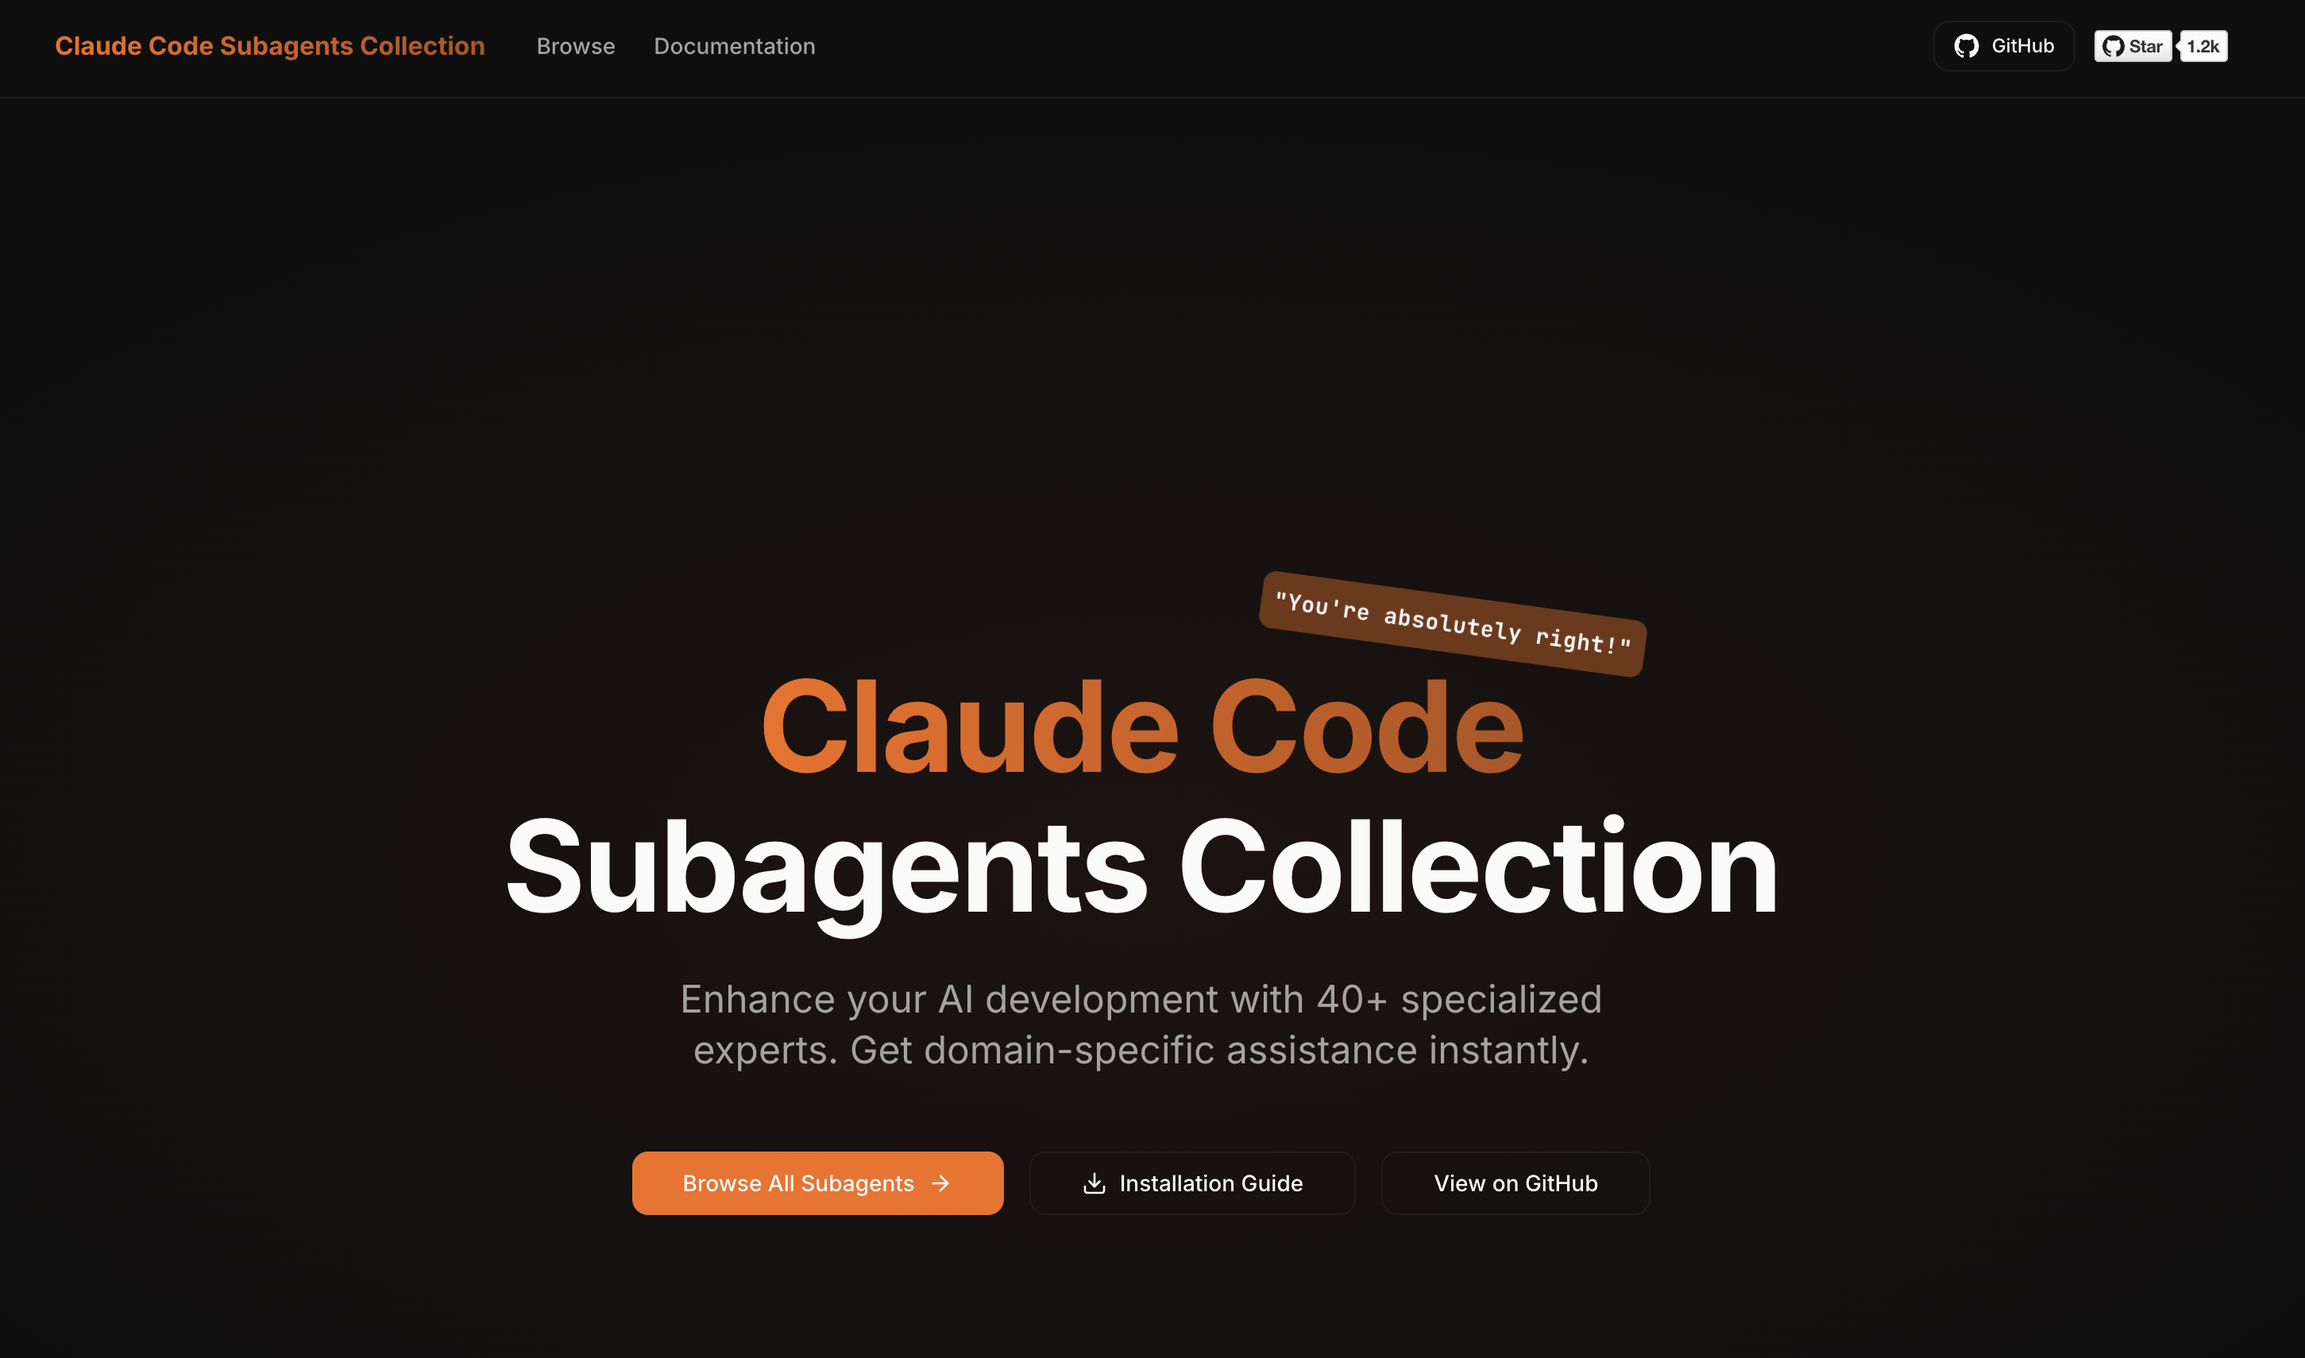
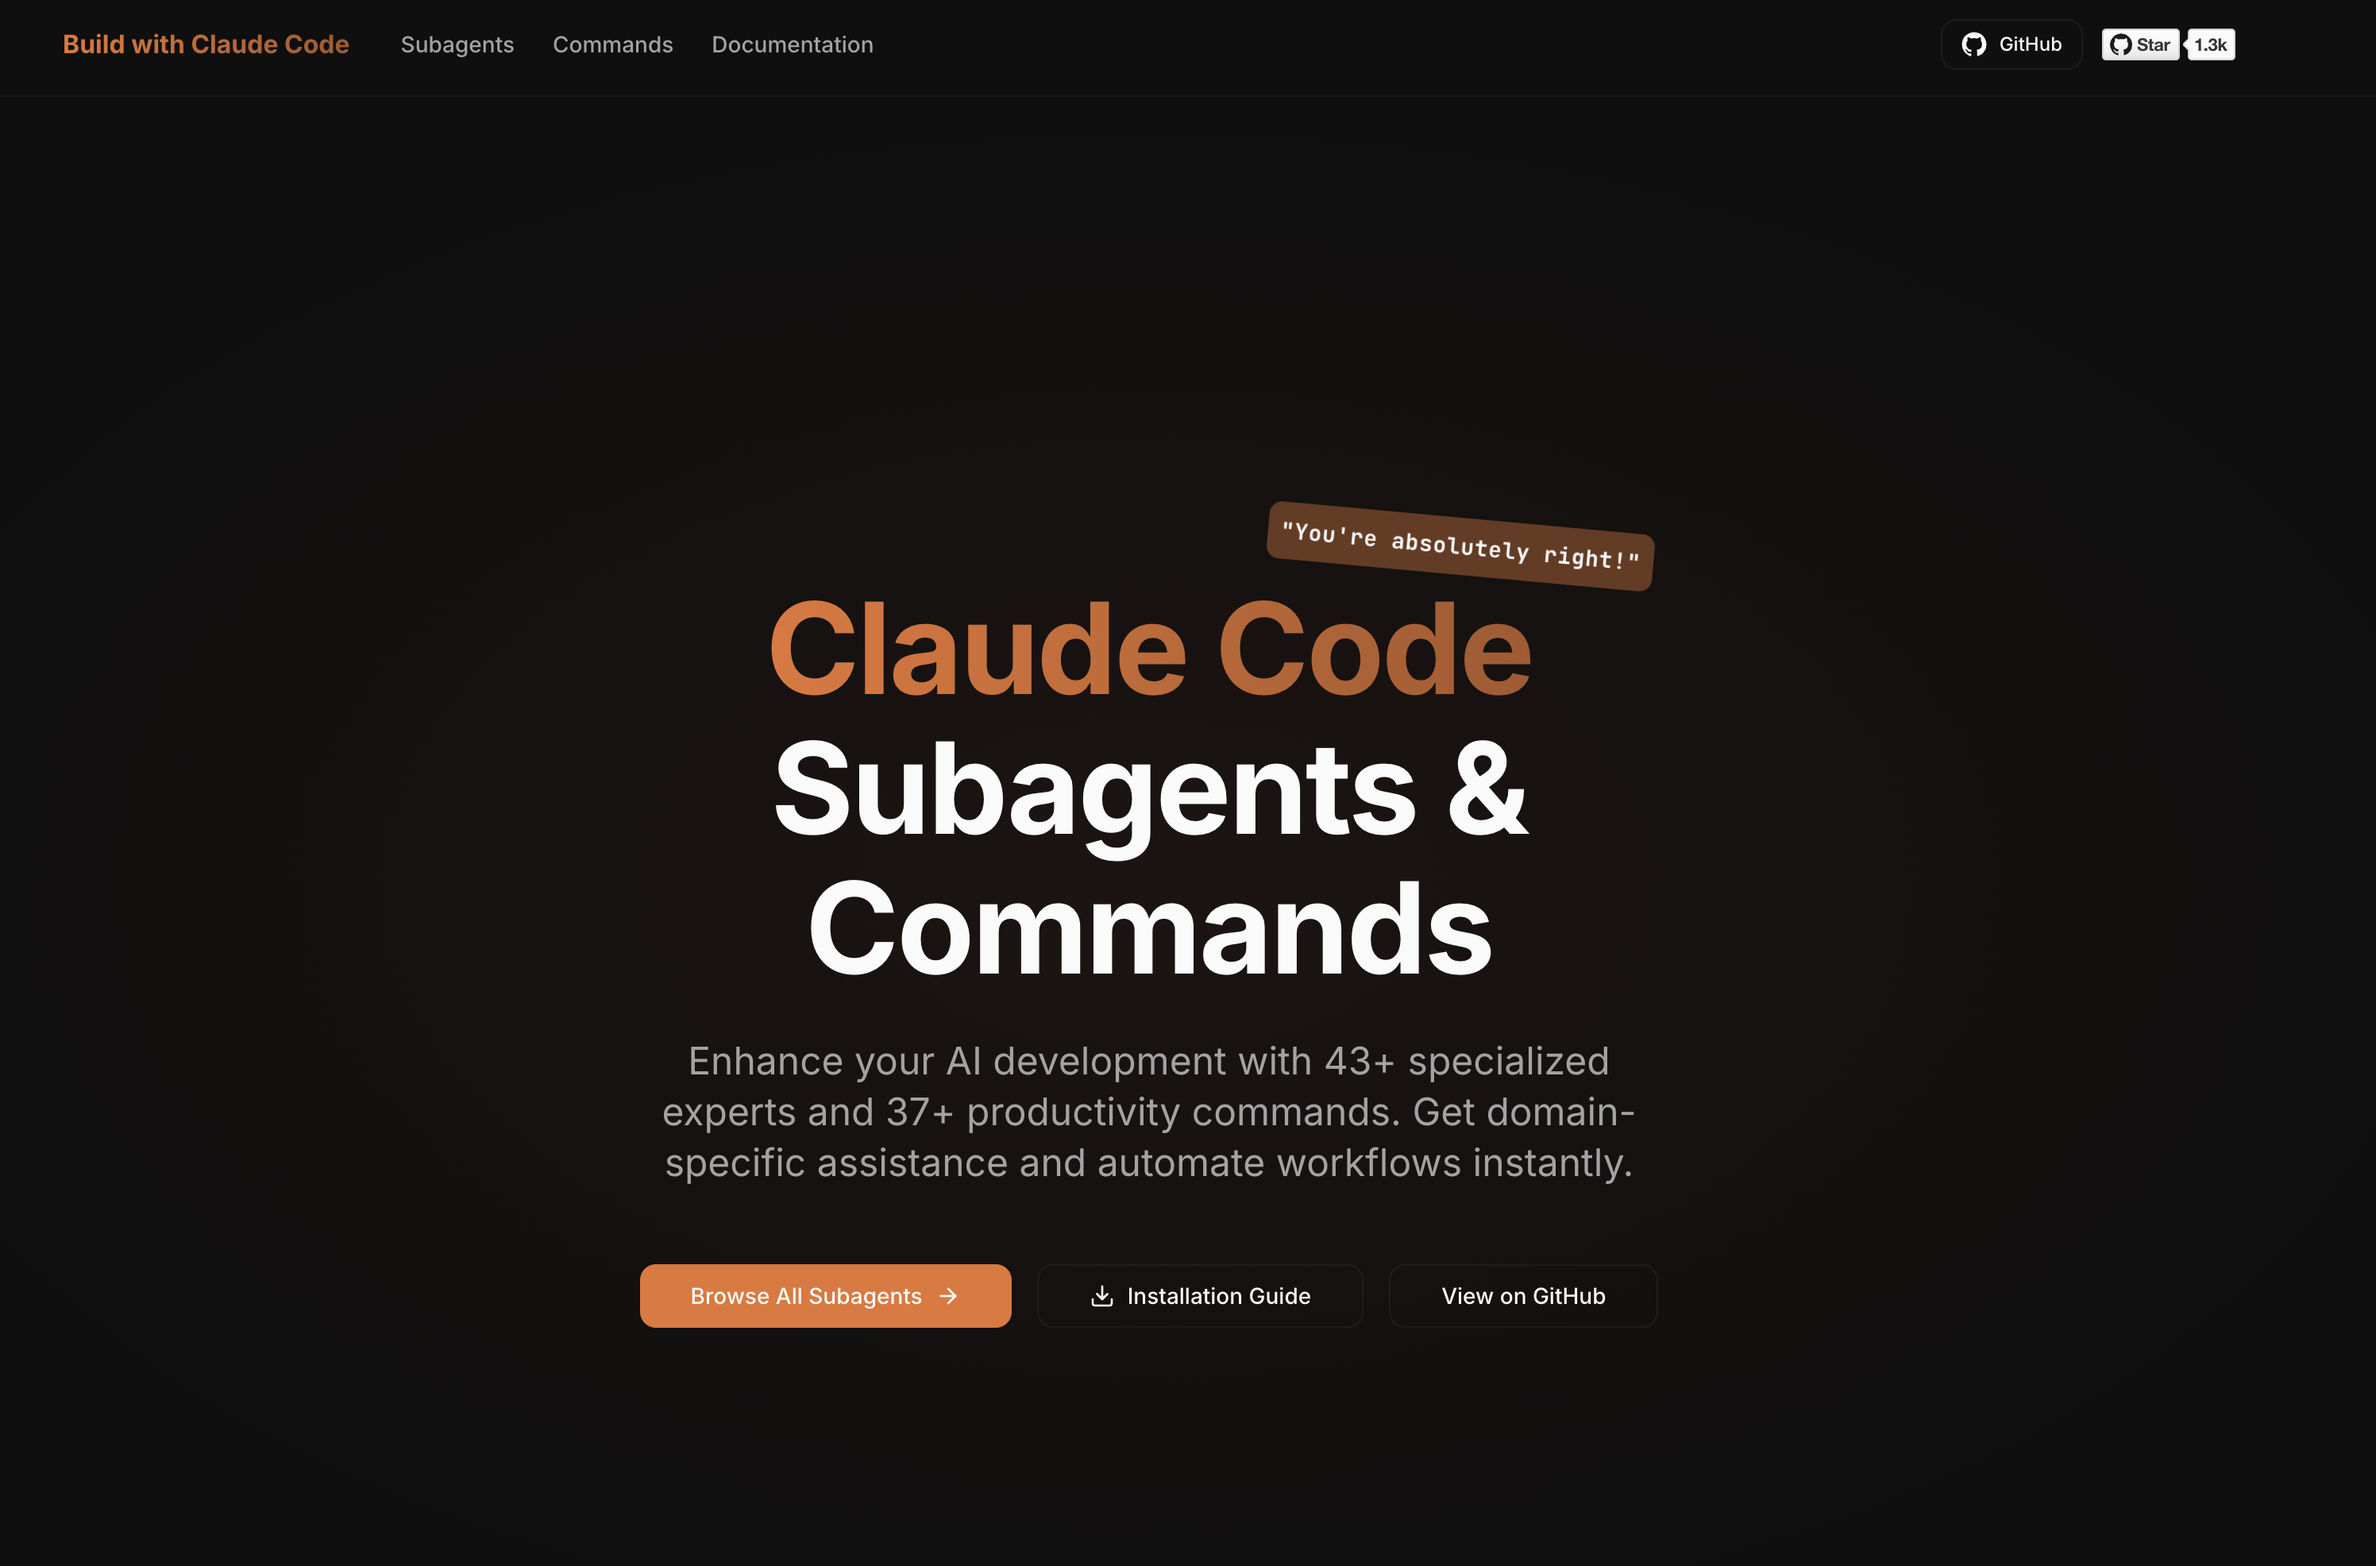
Add new images for commands and update README documentation
- Introduced a new image: buildwithclaude-commands.png to enhance the README.
- Updated README.md to include the new commands image alongside existing subagent images, improving visual representation of available features.

diff --git a/README.md b/README.md
@@ -10,6 +10,8 @@ Browse, search, and install both subagents and commands instantly at [buildwithc
 
 ![Browse Subagents](buildwithclaude-subagents.png)
 
+![Browse Commands](buildwithclaude-commands.png)
+
 ## Overview
 
 This repository contains:
